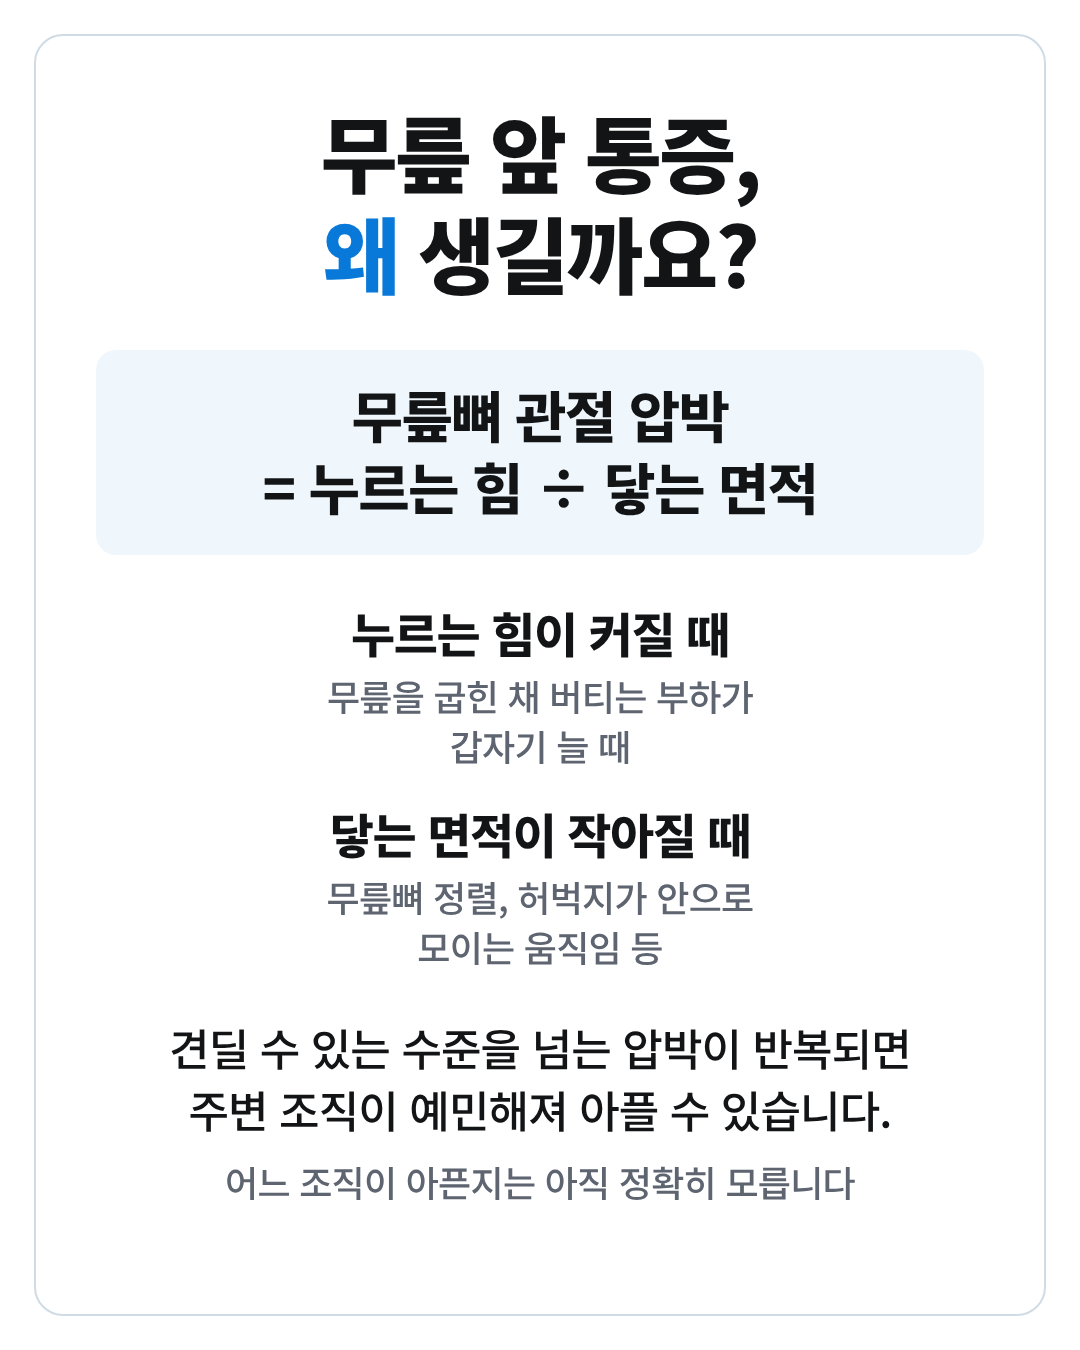
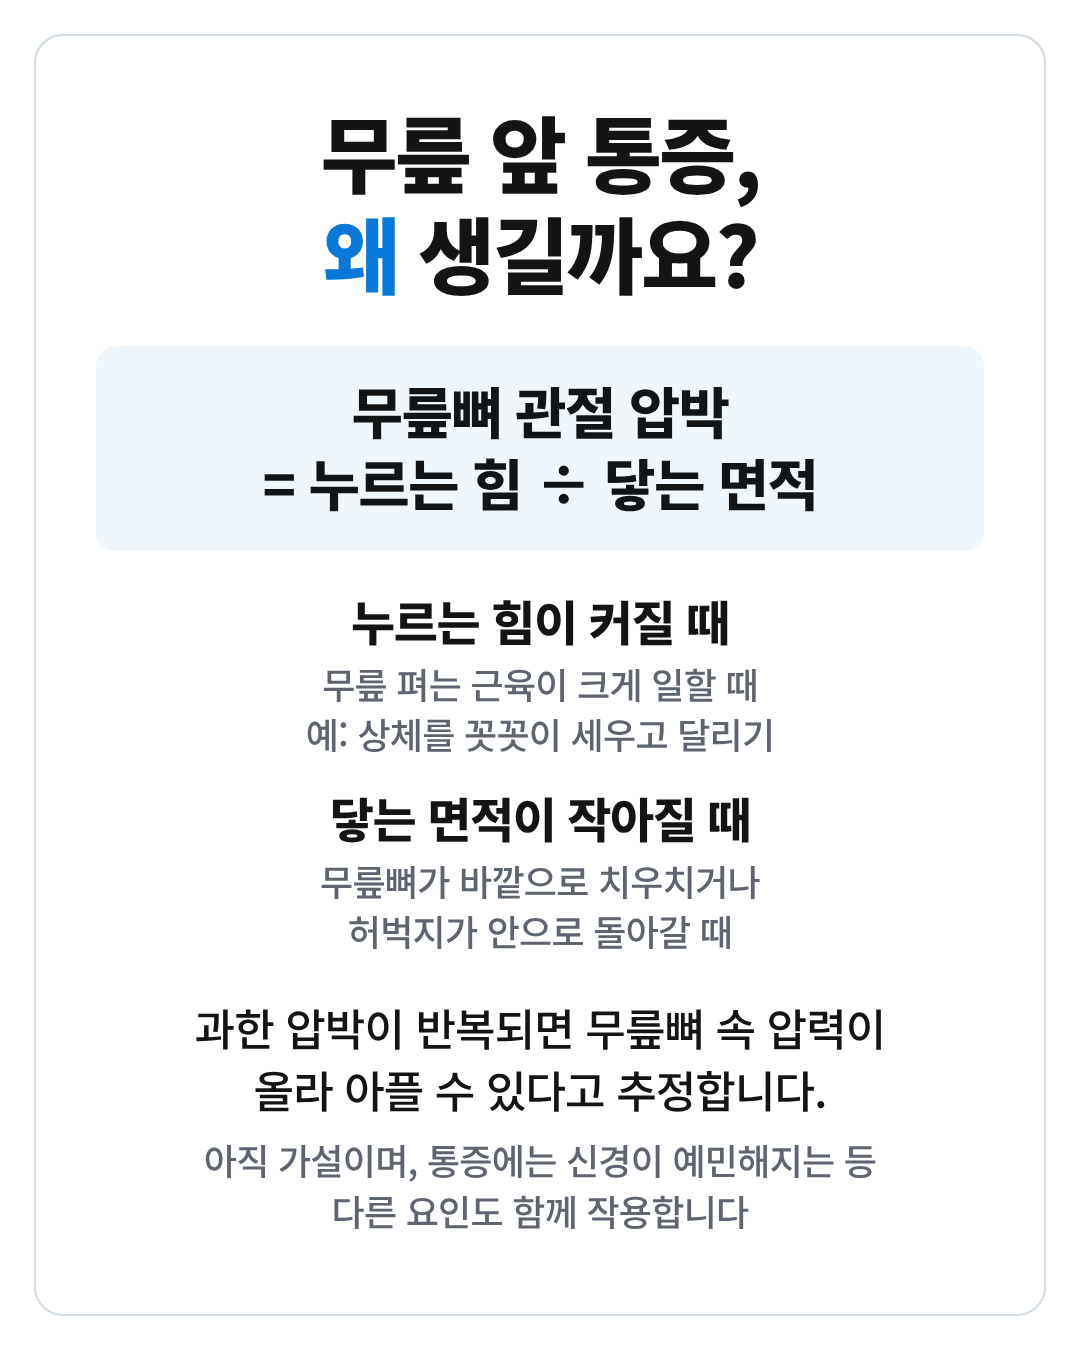
Correct PFP part 2 extra card against the full 2017 consensus text
Checked the card against the full Powers 2017 consensus PDF: the force
example now follows Statement 1.2b.2 (people with PFP show lower, not
higher, joint reaction force, and load spikes are not in the paper), the
contact-area example follows 1.1a/1.1a.2, the pain mechanism follows
Statement 1 (bone pressure, stated as an assumption) and the note states
that no prospective study links stress to PFP and that pain also involves
sensitisation.

Claude-Session: https://claude.ai/code/session_01ShtY7D75A5srLcHNhwusCN

Changed region(s): [[0.1528, 0.7467, 0.8556, 0.9333], [0.275, 0.4356, 0.7333, 0.7156], [0.2444, 0.28, 0.7639, 0.4044]]

diff --git a/content/pfp-runners-part2-why/source/01.html b/content/pfp-runners-part2-why/source/01.html
@@ -24,7 +24,7 @@ h1,p{margin:0;text-align:center}
 .list{display:flex;flex-direction:column;align-items:center;gap:30px}
 .pair{display:flex;flex-direction:column;align-items:center;gap:6px}
 .box{background:var(--tint);border-radius:20px;padding:30px 40px;width:888px}
-</style></head><body><article class="card kind-why"><svg class="card-frame" width="1080" height="1350" viewBox="0 0 1080 1350" aria-hidden="true"><rect x="35" y="35" width="1010" height="1280" rx="28" fill="none" stroke="#D0DCE5" stroke-width="2"/></svg><h1 class="headline">무릎 앞 통증,<br><span class="accent">왜</span> 생길까요?</h1><div style="height:44px;flex:none"></div><div class="box"><p class="key">무릎뼈 관절 압박<br>= 누르는 힘 ÷ 닿는 면적</p></div><div style="height:48px;flex:none"></div><div class="list" style="gap:32px"><div class="pair"><p class="item">누르는 힘이 커질 때</p><p class="note" style="color:var(--muted)">무릎을 굽힌 채 버티는 부하가<br>갑자기 늘 때</p></div><div class="pair"><p class="item">닿는 면적이 작아질 때</p><p class="note" style="color:var(--muted)">무릎뼈 정렬, 허벅지가 안으로<br>모이는 움직임 등</p></div></div><div style="height:44px;flex:none"></div><p class="body">견딜 수 있는 수준을 넘는 압박이 반복되면<br>주변 조직이 예민해져 아플 수 있습니다.</p><div style="height:16px;flex:none"></div><p class="note">어느 조직이 아픈지는 아직 정확히 모릅니다</p></article><script>// ?qa 로 열 때만 실행: contentBottom(실제 마지막 텍스트 줄/이미지), 안전영역, 넘침, 정렬, 폰트 크기를 기록한다.
+</style></head><body><article class="card kind-why"><svg class="card-frame" width="1080" height="1350" viewBox="0 0 1080 1350" aria-hidden="true"><rect x="35" y="35" width="1010" height="1280" rx="28" fill="none" stroke="#D0DCE5" stroke-width="2"/></svg><h1 class="headline">무릎 앞 통증,<br><span class="accent">왜</span> 생길까요?</h1><div style="height:40px;flex:none"></div><div class="box"><p class="key">무릎뼈 관절 압박<br>= 누르는 힘 ÷ 닿는 면적</p></div><div style="height:40px;flex:none"></div><div class="list" style="gap:28px"><div class="pair"><p class="item">누르는 힘이 커질 때</p><p class="note" style="color:var(--muted)">무릎 펴는 근육이 크게 일할 때<br>예: 상체를 꼿꼿이 세우고 달리기</p></div><div class="pair"><p class="item">닿는 면적이 작아질 때</p><p class="note" style="color:var(--muted)">무릎뼈가 바깥으로 치우치거나<br>허벅지가 안으로 돌아갈 때</p></div></div><div style="height:40px;flex:none"></div><p class="body">과한 압박이 반복되면 무릎뼈 속 압력이<br>올라 아플 수 있다고 추정합니다.</p><div style="height:14px;flex:none"></div><p class="note">아직 가설이며, 통증에는 신경이 예민해지는 등<br>다른 요인도 함께 작용합니다</p></article><script>// ?qa 로 열 때만 실행: contentBottom(실제 마지막 텍스트 줄/이미지), 안전영역, 넘침, 정렬, 폰트 크기를 기록한다.
 if (location.search.includes('qa')) (async () => {
   await document.fonts.ready;
   await Promise.all([...document.images].map(i => i.decode().catch(() => {})));

diff --git a/content/pfp-runners-part2/source/build.py b/content/pfp-runners-part2/source/build.py
@@ -54,14 +54,14 @@ def gap(px):
     return f'<div style="height:{px}px;flex:none"></div>'
 
 
-WHY_CARD =     ('kind-why', [
-        '<h1 class="headline">무릎 앞 통증,<br><span class="accent">왜</span> 생길까요?</h1>', gap(44),
-        '<div class="box"><p class="key">무릎뼈 관절 압박<br>= 누르는 힘 ÷ 닿는 면적</p></div>', gap(48),
-        '<div class="list" style="gap:32px">'
-        + pair('누르는 힘이 커질 때', '무릎을 굽힌 채 버티는 부하가<br>갑자기 늘 때')
-        + pair('닿는 면적이 작아질 때', '무릎뼈 정렬, 허벅지가 안으로<br>모이는 움직임 등') + '</div>', gap(44),
-        '<p class="body">견딜 수 있는 수준을 넘는 압박이 반복되면<br>주변 조직이 예민해져 아플 수 있습니다.</p>', gap(16),
-        '<p class="note">어느 조직이 아픈지는 아직 정확히 모릅니다</p>'])
+WHY_CARD = ('kind-why', [  # 근거: Powers 2017 BJSM 51:1713 (원문 확인) Statement 1, 1.1, 1.1a, 1.1a.2, 1.2b.2
+        '<h1 class="headline">무릎 앞 통증,<br><span class="accent">왜</span> 생길까요?</h1>', gap(40),
+        '<div class="box"><p class="key">무릎뼈 관절 압박<br>= 누르는 힘 ÷ 닿는 면적</p></div>', gap(40),
+        '<div class="list" style="gap:28px">'
+        + pair('누르는 힘이 커질 때', '무릎 펴는 근육이 크게 일할 때<br>예: 상체를 꼿꼿이 세우고 달리기')
+        + pair('닿는 면적이 작아질 때', '무릎뼈가 바깥으로 치우치거나<br>허벅지가 안으로 돌아갈 때') + '</div>', gap(40),
+        '<p class="body">과한 압박이 반복되면 무릎뼈 속 압력이<br>올라 아플 수 있다고 추정합니다.</p>', gap(14),
+        '<p class="note">아직 가설이며, 통증에는 신경이 예민해지는 등<br>다른 요인도 함께 작용합니다</p>'])
 
 CARDS = [
     # 01 표지

diff --git a/content/pfp-runners-part2-why/research/sources.md b/content/pfp-runners-part2-why/research/sources.md
@@ -1,7 +1,14 @@
 # 근거 — PFP 2탄 추가 카드(병인)
 
-## S5. 병리역학 모델 (요약·초록 수준, 원문 미확인)
+## S5. 병리역학 모델 — 원문 전체 확인 (2026-10-16, 사용자 제공 PDF 11쪽)
 Powers CM, Witvrouw E, Davis IS, Crossley KM. Evidence-based framework for a pathomechanical model of patellofemoral pain: 2017 patellofemoral pain consensus statement from the 4th International Patellofemoral Pain Research Retreat, Manchester, UK: part 3. Br J Sports Med 2017;51(24):1713–1723. doi:10.1136/bjsports-2017-098717.
-- 확인 범위(2026-10-16 웹 검색 요약): 모델의 전제는 PFP가 무릎뼈 관절의 비정상적 부하(관절 압박 증가)와 관련된다는 것. 비정상 부하가 연골하골·무릎뼈 아래 지방 패드·지지띠·인대 구조 등 통증을 낼 수 있는 조직에 영향을 줄 수 있다고 제안. 통증의 구체적 조직 원인은 알려져 있지 않다고 명시. 합의(retreat 참석자)로 만든 이론 틀.
-- 압박 = 관절 반력 ÷ 접촉 면적은 S1(Powers 2014) Methods의 PFJ stress 계산 정의와 같음.
-- 원문 본문(경로별 근거 수준)은 미확인.
+PDF는 저작권(텍스트·데이터 마이닝 포함) 보호 표시가 있어 저장소에 넣지 않음.
+
+### 카드에 쓴 내용 (원문 위치)
+- 서론(p1713): PFP의 원인은 해부·생체역학·심리·사회·행동 요인의 복잡한 상호작용. 모델의 전제는 PFP가 무릎뼈 관절의 비정상적 부하(관절 압박 증가)와 관련된다는 것. 비정상 부하가 통증을 낼 수 있는 조직(연골하골·무릎뼈 아래 지방 패드·지지띠·인대)에 영향을 줄 수 있으나 **구체적 통증 조직은 알려져 있지 않음**. **PFP 경험은 통각만이 아님**: 지속 PFP에서 통증 처리 이상(광범위 기계적 통각과민, 통증 조절 저하), 감각운동 기능 저하, 파국화·운동공포 등.
+- Statement 1(p1714): PFP가 있는 사람은 기능 과제 중 관절·연골·뼈 스트레스가 높지만 연구마다 일관되지 않음. **압박 증가와 PFP 발생을 연결한 전향 연구는 아직 없음.** 압박이 통증을 만드는 정확한 기전은 불분명. 반복 과부하가 무릎뼈 연골하골 대사 활동이나 뼈 수분을 늘리고 → 뼈 속 압력 증가 → 압력 감지 통각수용기 자극 가능(러너 PFP의 뼈 수분 증가·통증 변동 보고).
+- Statement 1.1: PFP의 압박 증가는 접촉 면적 감소로 생길 수 있으나 변동이 크고 무릎 굽힘 각도에 따라 다름(20°에서 차이, 40°에서는 차이 없음).
+- Statement 1.1a / 1.1a.2: 무릎뼈 정렬 이상·궤적 이상(바깥쪽 치우침·기울기)은 일부 PFP에서 접촉 면적을 줄임. 체중 지지 시 넙다리뼈(허벅지) 안쪽 돌림이 무릎뼈 바깥 기울기·치우침의 중요한 원인.
+- Statement 1.2: **PFP가 있는 사람은 관절 반력(누르는 힘) 최대치가 오히려 더 낮음** → 카드에서 "PFP는 힘이 커서 생긴다"로 쓰지 않고 힘을 키우는 조건만 설명.
+- Statement 1.2b.2: 상체를 더 세운 자세로 달리면 무릎 펴는 모멘트와 관절 반력이 커질 수 있음(엉덩관절 폄근 약한 사람에서 상체가 세워지고 무릎 폄근 의존이 큼).
+- Statement 1.2a.2: 엉덩관절 모음(허벅지가 안으로 모임)과 PFP는 중간 정도 관련, 전향 연구 1편에서 이후 PFP가 생긴 러너가 엉덩관절 모음이 더 컸음.

diff --git a/content/pfp-runners-part2-why/research/claims.md b/content/pfp-runners-part2-why/research/claims.md
@@ -1,9 +1,9 @@
-# 문장 ↔ 근거 — 추가 카드
+# 문장 ↔ 근거 — 추가 카드 (원문 대조 후 수정)
 
-| 문장 | 근거 | 메모 |
+| 카드 문장 | 원문 근거(S5) | 판정·수정 |
 |---|---|---|
-| 무릎뼈 관절 압박 = 누르는 힘 ÷ 닿는 면적 | S1 Methods(PFJ stress = 반력/접촉 면적), S5 | |
-| 누르는 힘이 커질 때: 무릎을 굽힌 채 버티는 부하가 갑자기 늘 때 | S5 모델(관절 반력 증가 경로), S1(굽힘 각도↑ 스쿼트 압박↑) | ‘갑자기’는 부하 변화 표현. 수치 없음 |
-| 닿는 면적이 작아질 때: 무릎뼈 정렬, 허벅지가 안으로 모이는 움직임 등 | S5 모델(접촉 면적 감소 경로), 1탄(엉덩관절 내전/내회전) | 원인 단정 아님(“등”) |
-| 견딜 수 있는 수준을 넘는 압박이 반복되면 주변 조직이 예민해져 아플 수 있습니다 | S5 | “있습니다”로 가능성 표현 |
-| 어느 조직이 아픈지는 아직 정확히 모릅니다 | S5(명시) | |
+| 무릎뼈 관절 압박 = 누르는 힘 ÷ 닿는 면적 | Figure 1(관절 반력·접촉 면적 경로), Statement 1.1·1.2 | 일치 |
+| 누르는 힘이 커질 때: 무릎 펴는 근육이 크게 일할 때, 예: 상체를 꼿꼿이 세우고 달리기 | Statement 1.2b.2 | **수정**: 이전 문구 "무릎을 굽힌 채 버티는 부하가 갑자기 늘 때"는 원문에 없음(부하 급증 내용 없음). 또 Statement 1.2에서 PFP는 반력이 더 낮게 측정됨 → 원인 단정 대신 조건만 제시 |
+| 닿는 면적이 작아질 때: 무릎뼈가 바깥으로 치우치거나 허벅지가 안으로 돌아갈 때 | Statement 1.1a, 1.1a.2 | **수정**: "무릎뼈 정렬, 허벅지가 안으로 모이는 움직임 등"을 원문 표현(바깥 치우침, 넙다리 안쪽 돌림)에 맞춤. 일부 PFP에만 해당(원문) → 캡션에 표기 |
+| 과한 압박이 반복되면 무릎뼈 속 압력이 올라 아플 수 있다고 추정합니다 | Statement 1(반복 과부하→연골하골 대사·수분↑→뼈 속 압력↑→통각수용기) | **수정**: "주변 조직이 예민해져"를 원문 기전으로 구체화, "유력" 대신 "추정"(기전 not clear) |
+| 아직 가설이며, 통증에는 신경이 예민해지는 등 다른 요인도 함께 작용합니다 | Statement 1(전향 연구 없음), 서론(통각만이 아님: 통각과민·통증 조절 저하·심리 요인) | **수정**: 이전 "어느 조직이 아픈지 모릅니다"에서 더 중요한 한계 두 가지로 교체(조직 미상은 캡션) |

diff --git a/content/pfp-runners-part2-why/caption-add.md b/content/pfp-runners-part2-why/caption-add.md
@@ -1,4 +1,8 @@
 📌 무릎 앞 통증, 왜 생길까요?
-현재 가장 널리 쓰이는 설명은 ‘무릎뼈 관절 압박’ 모델입니다. 압박은 무릎뼈를 누르는 힘을 닿는 면적으로 나눈 값이라, 무릎을 굽힌 채 버티는 부하가 갑자기 늘거나(힘↑) 무릎뼈 정렬·허벅지가 안으로 모이는 움직임 등으로 닿는 면적이 줄면(면적↓) 커집니다. 견딜 수 있는 수준을 넘는 압박이 반복되면 무릎뼈 주변 조직이 예민해져 통증이 날 수 있습니다. 다만 어느 조직이 아픈지는 아직 정확히 밝혀지지 않았습니다.
+2017 국제 합의문이 제시한 설명 모델은 ‘무릎뼈 관절 압박’입니다. 압박은 무릎뼈를 누르는 힘을 닿는 면적으로 나눈 값입니다.
+- 누르는 힘이 커지는 조건: 무릎 펴는 근육이 크게 일할 때(예: 상체를 꼿꼿이 세우고 달리면 무릎에 실리는 힘이 커질 수 있음)
+- 닿는 면적이 작아지는 조건: 무릎뼈가 바깥으로 치우치거나, 체중을 실을 때 허벅지가 안으로 돌아갈 때(일부 사람에게만 해당)
+과한 압박이 반복되면 무릎뼈 속 뼈의 대사와 수분이 늘어 뼈 속 압력이 오르고, 이것이 통증 신호를 만든다고 추정합니다.
+다만 압박이 PFP를 일으킨다는 것을 보여 준 전향 연구는 아직 없고, 어느 조직이 아픈지도 밝혀지지 않았습니다. 오래 지속된 PFP에서는 통증에 예민해지는 변화나 움직임에 대한 두려움 같은 요인도 함께 작용합니다.
 
 참고 추가: Powers CM et al. Br J Sports Med 2017;51:1713-1723

diff --git a/content/pfp-runners-part2-why/delivery/caption-add.md b/content/pfp-runners-part2-why/delivery/caption-add.md
@@ -1,4 +1,8 @@
 📌 무릎 앞 통증, 왜 생길까요?
-현재 가장 널리 쓰이는 설명은 ‘무릎뼈 관절 압박’ 모델입니다. 압박은 무릎뼈를 누르는 힘을 닿는 면적으로 나눈 값이라, 무릎을 굽힌 채 버티는 부하가 갑자기 늘거나(힘↑) 무릎뼈 정렬·허벅지가 안으로 모이는 움직임 등으로 닿는 면적이 줄면(면적↓) 커집니다. 견딜 수 있는 수준을 넘는 압박이 반복되면 무릎뼈 주변 조직이 예민해져 통증이 날 수 있습니다. 다만 어느 조직이 아픈지는 아직 정확히 밝혀지지 않았습니다.
+2017 국제 합의문이 제시한 설명 모델은 ‘무릎뼈 관절 압박’입니다. 압박은 무릎뼈를 누르는 힘을 닿는 면적으로 나눈 값입니다.
+- 누르는 힘이 커지는 조건: 무릎 펴는 근육이 크게 일할 때(예: 상체를 꼿꼿이 세우고 달리면 무릎에 실리는 힘이 커질 수 있음)
+- 닿는 면적이 작아지는 조건: 무릎뼈가 바깥으로 치우치거나, 체중을 실을 때 허벅지가 안으로 돌아갈 때(일부 사람에게만 해당)
+과한 압박이 반복되면 무릎뼈 속 뼈의 대사와 수분이 늘어 뼈 속 압력이 오르고, 이것이 통증 신호를 만든다고 추정합니다.
+다만 압박이 PFP를 일으킨다는 것을 보여 준 전향 연구는 아직 없고, 어느 조직이 아픈지도 밝혀지지 않았습니다. 오래 지속된 PFP에서는 통증에 예민해지는 변화나 움직임에 대한 두려움 같은 요인도 함께 작용합니다.
 
 참고 추가: Powers CM et al. Br J Sports Med 2017;51:1713-1723

diff --git a/content/pfp-runners-part2-why/QA_REPORT.md b/content/pfp-runners-part2-why/QA_REPORT.md
@@ -1,7 +1,7 @@
-# QA — PFP 2탄 추가 카드 1장 (2026-10-16)
+# QA — PFP 2탄 추가 카드 1장 (2026-10-16, 원문 대조 후 수정본)
 
 - 사용자 요청: 병인(통증이 생기는 이유) 카드 한 장만 따로 받아 2탄 세트에 직접 합침. 권장 위치: 표지 다음(2번째).
-- exports/01.png 1080×1350, 원본·360px 확인. 표지 이후 내부 카드 규격: 제목 84/850, 공식 박스 56/800, 항목 48/800, 보조 36, 본문 44/500.
-- contentBottom 1204.5, bottomGap 111.5, 안전 영역·겹침 오류 없음. 사진 없음(개념 카드, 그림 미사용).
-- PPTX 1장, 줄 상자 13개. LibreOffice 대체 검사 LO-PASS(세로 2px, 차이 7.99%). PowerPoint 검증 미실시, Express 가져오기 미확인.
-- 근거 S5는 요약·초록 수준(원문 미확인).
+- 근거: Powers 2017 원문 전체 확인(사용자 제공 PDF). 첫 버전의 문장 3개를 원문에 맞게 수정(research/claims.md).
+- exports/01.png 1080×1350, 원본 육안 확인. 제목 84/850, 공식 박스 56/800, 항목 48/800, 본문 44/500, 보조 36.
+- contentBottom 1232.9, bottomGap 83.1(목표 1140~1240 안), 안전 영역·겹침 오류 없음. 사진 없음(개념 카드, 그림 미사용).
+- PPTX 1장, 줄 상자 14개. LibreOffice 대체 검사 LO-FAIL(세로 2px, 픽셀 차이 8.47%: LibreOffice가 "예:"·쉼표 주변에 간격을 더 넣는 알려진 차이, 줄 수·줄바꿈 동일). PowerPoint 검증 미실시, Express 가져오기 미확인.
